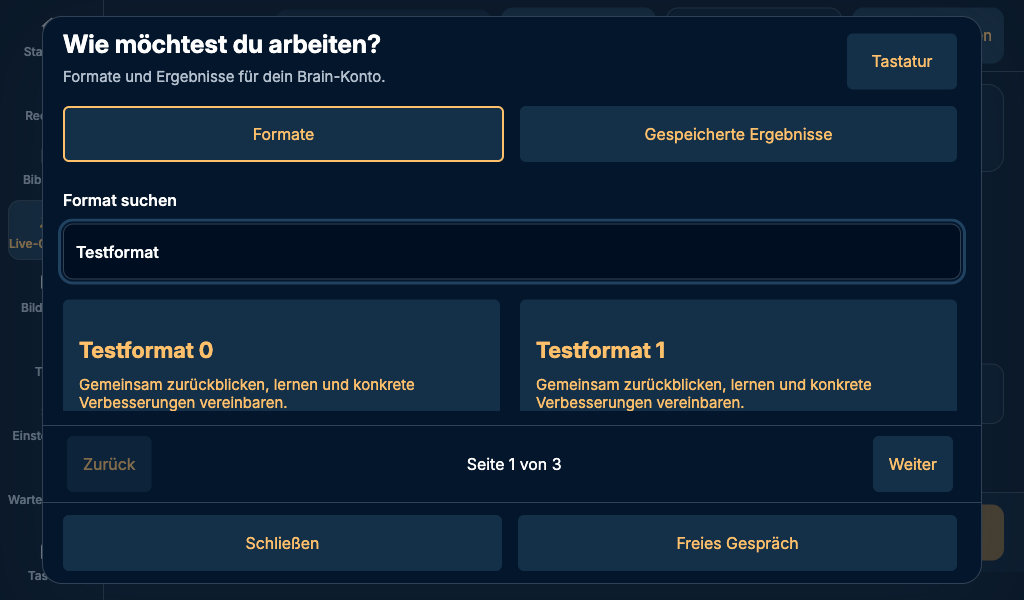
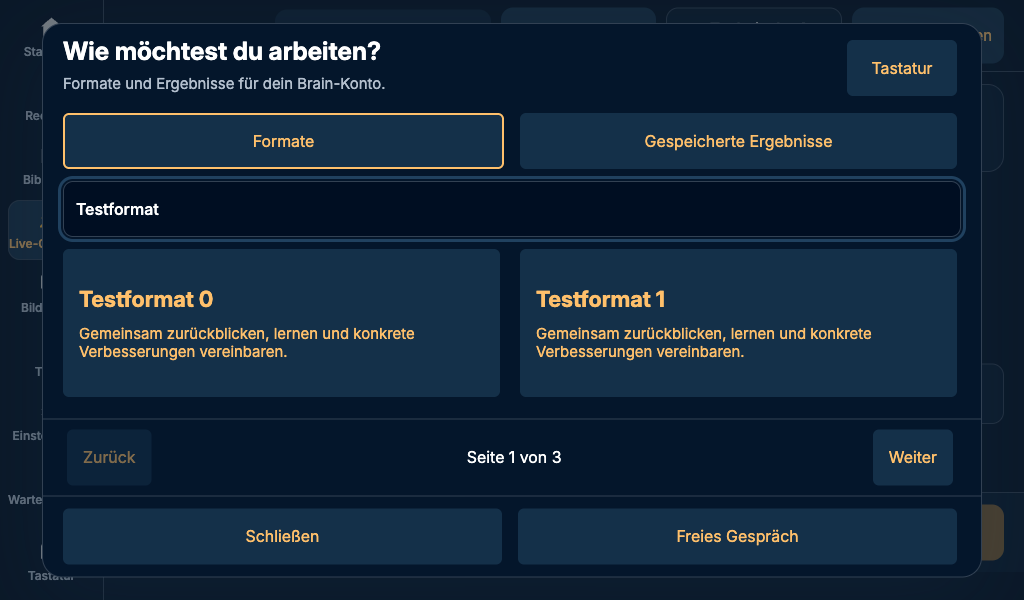
fix(ui): keep workflow search tiles fully visible on Pi displays

diff --git a/studio/workshops.js b/studio/workshops.js
@@ -30,7 +30,7 @@
   const tabs=document.createElement('nav');tabs.className='workshop-tabs';tabs.setAttribute('aria-label','Formate oder Ergebnisse');
   for(const [id,label] of [['formats','Formate'],['results','Gespeicherte Ergebnisse']]){const b=button(label,()=>{collection=id;choose()});b.setAttribute('aria-pressed',String(collection===id));tabs.append(b)}body.append(tabs);
   if(collection==='formats'){
-   if(catalog().length>6){const search=field('Format suchen','workflow-search','input',query);search.maxLength=80;search.oninput=()=>{const caret=search.selectionStart;query=search.value;catalogPage=0;choose();$('workflow-search').focus();$('workflow-search').setSelectionRange(caret,caret)};$('workshop-keyboard').hidden=false;}
+   if(catalog().length>6){const search=field('Format suchen','workflow-search','input',query);search.maxLength=80;search.placeholder='Format suchen';search.parentElement.className='workshop-search';search.oninput=()=>{const caret=search.selectionStart;query=search.value;catalogPage=0;choose();$('workflow-search').focus();$('workflow-search').setSelectionRange(caret,caret)};$('workshop-keyboard').hidden=false;}
    const items=catalog().filter(r=>(r.name+' '+r.description+' '+r.voice_aliases.join(' ')).toLocaleLowerCase().includes(query.toLocaleLowerCase()));
    catalogPage=Math.min(catalogPage,Math.max(0,Math.ceil(items.length/2)-1));const tiles=document.createElement('div');tiles.className='workshop-tiles';
    for(const item of items.slice(catalogPage*2,catalogPage*2+2)){

diff --git a/studio/workshops.css b/studio/workshops.css
@@ -27,3 +27,7 @@
 .workshop-tabs{display:flex;gap:12px;flex:none}.workshop-tabs button{flex:1}
 .workshop-section-pages{margin-top:auto}.workshop-section-pages .workshop-pages{flex-direction:row;flex-wrap:wrap;gap:6px}.workshop-section-pages button{flex:1}.workshop-section-pages span{order:-1;width:100%;text-align:center;font-size:14px}
 @media(max-height:650px){#workshop-dialog[data-mode=choose]{height:calc(100dvh - 32px)}.workshop-tabs button{min-height:56px}.workshop-tiles strong{font-size:22px}.workshop-tiles small{font-size:15px}}
+
+#workshop-body>label.workshop-search{margin:0;gap:0;flex:none}
+.workshop-search>span{position:absolute;width:1px;height:1px;overflow:hidden;clip-path:inset(50%);white-space:nowrap}
+#workshop-body .workshop-search input{margin:0}
